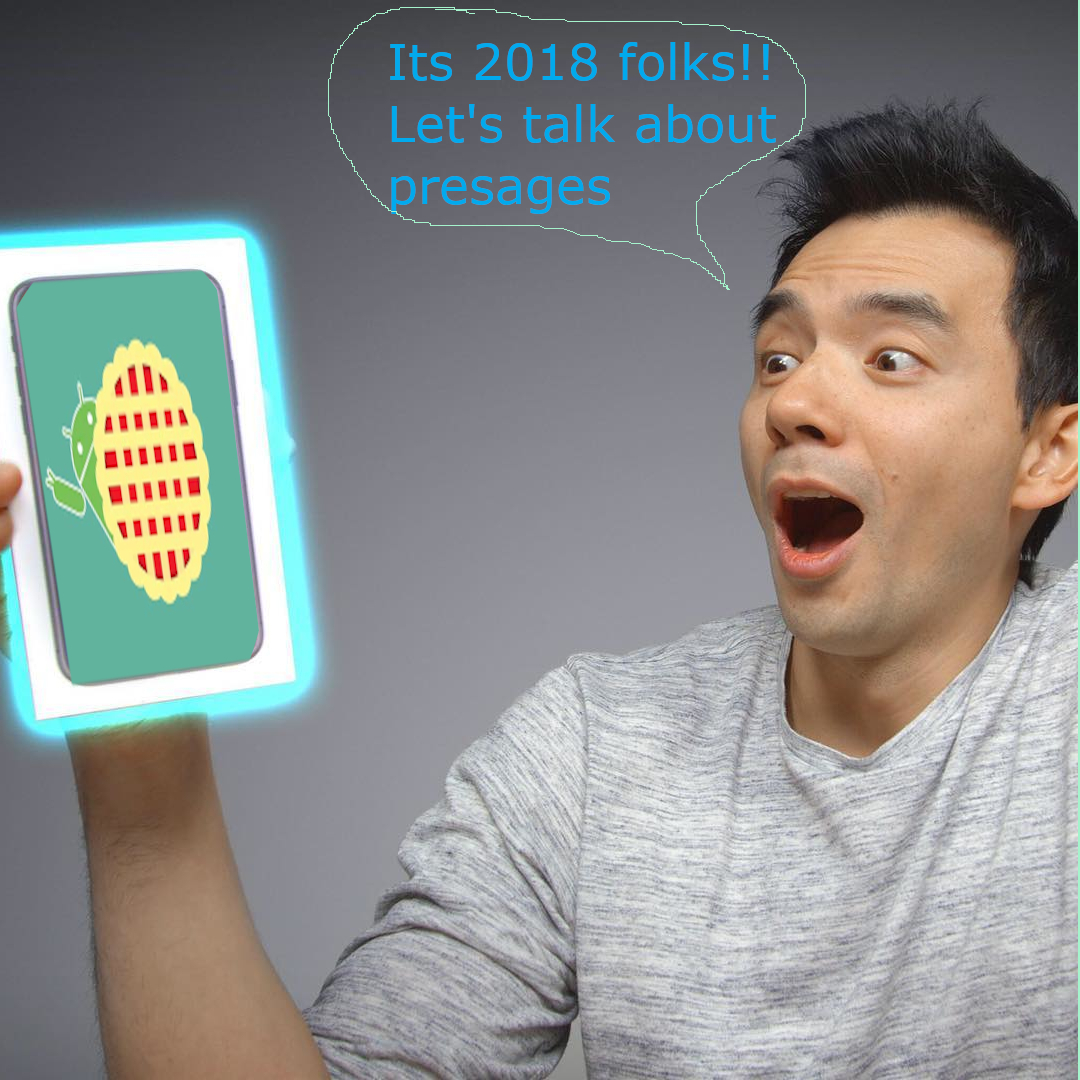
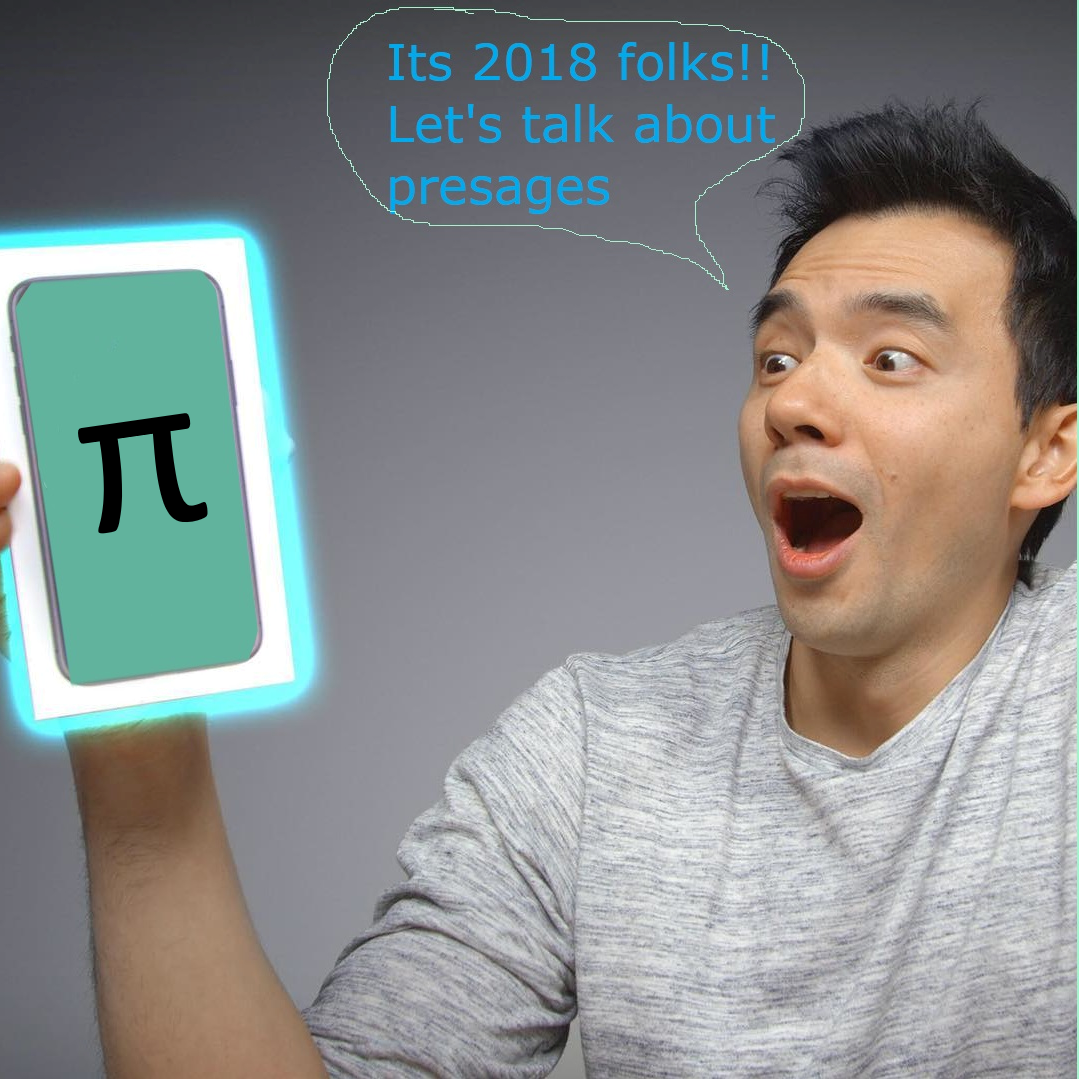
[master] Patch 1
- Change question #24 (image)
- Additional proxymeter entries

diff --git a/config/proxymeter.php b/config/proxymeter.php
@@ -12,10 +12,14 @@ return [
         2 => [
             'CENTROLENIDAE',
             'GLASS FROG',
-            'INVISIBLE FROG'
+            'INVISIBLE FROG',
+			'INVISIBLE MAN' 
         ],
         3 => [
             'ONEPLUS',
+			'ONE PLUS',
+			'SMARTPHONE',
+			'PHONE',
             'NEVER SETTLE'
         ],
 		4 => [
@@ -44,34 +48,45 @@ return [
             'AVENGERS AGE OF ULTRON',
             'AVENGERS',
             'TONY STARK',
-            'IRON MAN'
+            'IRON MAN',
+			'RICH'
         ],
 		8 => [
             'RADWIMPS',
             'TENKI NO KO',
             'CHILD OF WEATHER',
-			'WEATHERING WITH YOU',
+			'WEATHERING WITH YOU'
             'SOUNDTRACK',
             'MUSIC'
         ],
 		9 => [
             'NIKOLAI ANDREYEVICH RIMSKY KORSAKOV',
+			'NIKOLAI RIMSKY KORSAKOV',
             'NIKOLAI RIMSKY',
+			'NIKOLAI',
             'FLIGHT OF THE BUMBLEBEE',
             'THE FIVE',
+			'BUMBLEBEE',
+			'BEE',
+			'COMPOSER',
+			'MUSIC',
             'RUSSIA'
         ],
 		10 => [
             'WILLIAM JAMES MITCHELL JR',
             'BILLY MITCHELL',
+			'BILLY',
             '3333360',
+			'HIGH SCORE',
             'PACMAN',
             'ANGEL NUMBER'
         ],
 		11 => [
             'HELLO WORLD',
+            'BRAIN FUCK',
             'BRAINFUCK',
-            'BRAINFUCK',
+			'ESOTERIC PROGRAMMING',
+			'ESOTERIC',
             'PROGRAMMING'
         ],
 		12 => [
@@ -79,11 +94,17 @@ return [
             'THE DISCOVERY NETWORK',
             'ANIMAL PLANET',
             'TLC',
+			'AIRTEL DTH',
+			'AIRTEL DIGITAL TV',
+			'TELEVISION',
+			'TV AD',
+			'ADVERTISEMENT',
             'AIRTEL'
         ],
 		13 => [
             'LOLCAT',
             'LOLCODE',
+			'WEBSITE',
             'CAT MEMES',
             'ANIMAL MEMES',
             'MEMES'
@@ -91,8 +112,16 @@ return [
 		14 => [
             'APPLE HOMEPOD',
             'HOMEPOD',
+			'APPLE',
+			'SIRI',
             'LASER EXPLOIT',
             'LASER COMMAND',
+            'LIGHT EXPLOIT',
+            'LIGHT COMMAND',
+			'LIGHT HACK',
+			'LASER HACK',
+			'HACKER',
+			'HACK',
             'LASER'
         ],
 		15 => [
@@ -100,8 +129,12 @@ return [
             'COMMUNIST PARTY',
 			'COMMUNIST',
             'COMMUNISM',
+			'MARXIST',
+			'MARXISM',
             'ATHAR HUSSEIN RIZVI',
-            'KAIFI'
+            'KAIFI',
+			'ASCII',
+			'BINARY'
         ],
 		16 => [
             'BURAN',
@@ -110,67 +143,131 @@ return [
 			'SPACECRAFT',
 			'SOVIET UNION',
             'RUSSIA',
-            'JYNX'
+            'JYNX',
+			'POKEMON'
         ],
 		17 => [
             '1031316053',
+			'1009X1013',
+			'1013X1009',
             '1009',
             '1013',
             'RESOLUTION',
-            'PRIME NUMBERS'
+            'PRIME NUMBERS',
+			'PRIME',
+			'FACTORIZATION',
+			'PRIME FACTORIZATION'
         ],
 		18 => [
             'ROLLS ROYCE',
             'SIR FRANK WHITTLE',
-            'ENGINE'
+            'ENGINE',
+			'KESTRAL',
+			'PENNINE',
+			'MERLIN',
+			'CRECY',
+			'PLANE',
+			'AIRPLANE',
+			'AEROPLANE'
         ],
 		19 => [
             'LOUVRE PYRAMID',
             'THE LOUVRE PYRAMID',
             'LOUVRE',
+			'THE LOUVRE',
+			'PARIS MUSEUM',
+			'666',
+			'PARIS',
+			'MONA LISA CRATER',
             'MONA LISA',
+			'CRATER',
             'VENUS'
         ],
 		20 => [
             'STATUE OF UNITY',
             'SARDAR VALLABHBHAI PATEL',
             'VALLABHBHAI JHAVERBHAI PATEL',
+			'SARDAR PATEL',
             'IRON MAN',
+			'STATUE',
+			'TONY STARK',
             'INDIA'
         ],
 		21 => [
             'AIR FRANCE FLIGHT 4590',
+			'AIR FRANCE 4590',
+			'4590',
             'CONCORDE',
+			'AEROPLANE',
+			'AIRPLANE',
+			'PLANE',
+			'AIR FRANCE',
+			'PLANE CRASH',
             'BRITAIN',
             'FRANCE',
             'BLACKBOX'
         ],
 		22 => [
             'ALASTAIR PRESTON REYNOLDS',
+			'ALASTIAR REYNOLDS',
+			'ZIMA BLUE AND OTHER STORIES'
             'ZIMA BLUE',
             'LOVE DEATH AND ROBOTS',
+			'EPISODE 14',
+			'AUTHOR',
             'FRIENDS',
+			'NETFLIX',
             'BOOK'
         ],
 		23 => [
             'METAFORMIN AND DEHYDROEPIANDROSTERONE',
             'DEHYDROEPIANDROSTERONE AND METAFORMIN',
             'METAFORMIN AND DHEA',
+			'METAFORMIN',
+			'DEHYDROEPIANDROSTERONE',
+			'DHEA',
+			'DIABETES DRUGS',
+			'DIABETES MEDICINES',
+			'DIABETES DRUG',
+			'DIABETES MEDICINE',
+			'DRUG',
+			'DRUGS',
+			'MEDICINE',
+			'MEDICINE',
+			'NATURE',
+			'EPIGENETIC CLOCK',
             'TURRITOPSIS DOHRNII',
             'JELLYFISH',
+			'COCKTAIL',
+			'REVERSE AGEING',
+			'STOP AGEING',
 			'FRENCH ACADEMY',
+			'GOOGLE MAPS',
 			'PARIS'
         ],
 		24 => [
             'KEYBOARD',
+			'HP OMEN 2018',
+			'OMEN 2018',
+			'HP',
             'HP OMEN',
+			'OMEN'
             'DAVE LEE',
+			'TECH REVIEW',
+			'REVIEW',
+			'3.14',
             'PI',
             'YOUTUBE'
         ],
 		25 => [
             'BERGEN PIZZA AND RESTAURANT',
 			'BERGEN STREET',
+			'BERGEN ST',
+			'POLICE STATION',
+			'78',
+			'GOOGLE MAPS',
+			'2013',
+			'2019',
             'BROOKLYN NINE NINE',
             'BROOKLYN 99',
             'NEW YORK',
@@ -183,38 +280,55 @@ return [
             'BLOOD ON ICE',
             'BLOOD TRAIL',
 			'ICY GRAVE',
+			'SUB ZERO',
+			'SKARLET',
 			'MORTAL KOMBAT 11'
         ],
 		27 => [
             'LORD WALDER FREY',
+			'WALDER FREY',
             'DAVID JOHN BRADLEY',
+			'DAVID BRADLEY',
             'ARGUS FILCH',
+			'GAME OF THRONES',
+			'IRON THRONE',
+			'MRS NORRIS',
             'HARRY POTTER'
         ],
 		28 => [
             'ALL THE LIGHT WE CANNOT SEE',
             'WERNER',
+			'TIMO WERNER'
             'PARIS LOCK MUSEUM',
+			'PARIS MUSUEM',
+			'BOOK',
             'MUSEE DE LA SERRURE',
-			'RB LEIPZG',
+			'RB LEIPZG'
             'BUNDESLIGA'
         ],
 		29 => [
             'I HAVE FOUND QUEST 30',
             '432',
             'HERTZ',
+			'FREQUENCY',
             'LIFE THE UNIVERSE AND EVERYTHING',
 			'LIFE UNIVERSE AND EVERYTHING',
+			'LIFE UNIVERSE EVERYTHING',
             '42'
         ],
 		30 => [
             'EDWARD JOSEPH SNOWDEN',
+			'EDWARD SNOWDEN',
+			'CRYPTOGRAPHY',
             'NATIONAL SECURITY AGENCY',
             'NSA',
             'ITANIMULLI',
+			'MIRROR',
             'ILLUMINATI',
 			'FREEMASONRY',
-			'BAVARIA'
-        ],
+			'FREEMASONS',
+			'BAVARIA',
+			'FREISTAAT BAYERN'
+        ]
     ]
 ];
